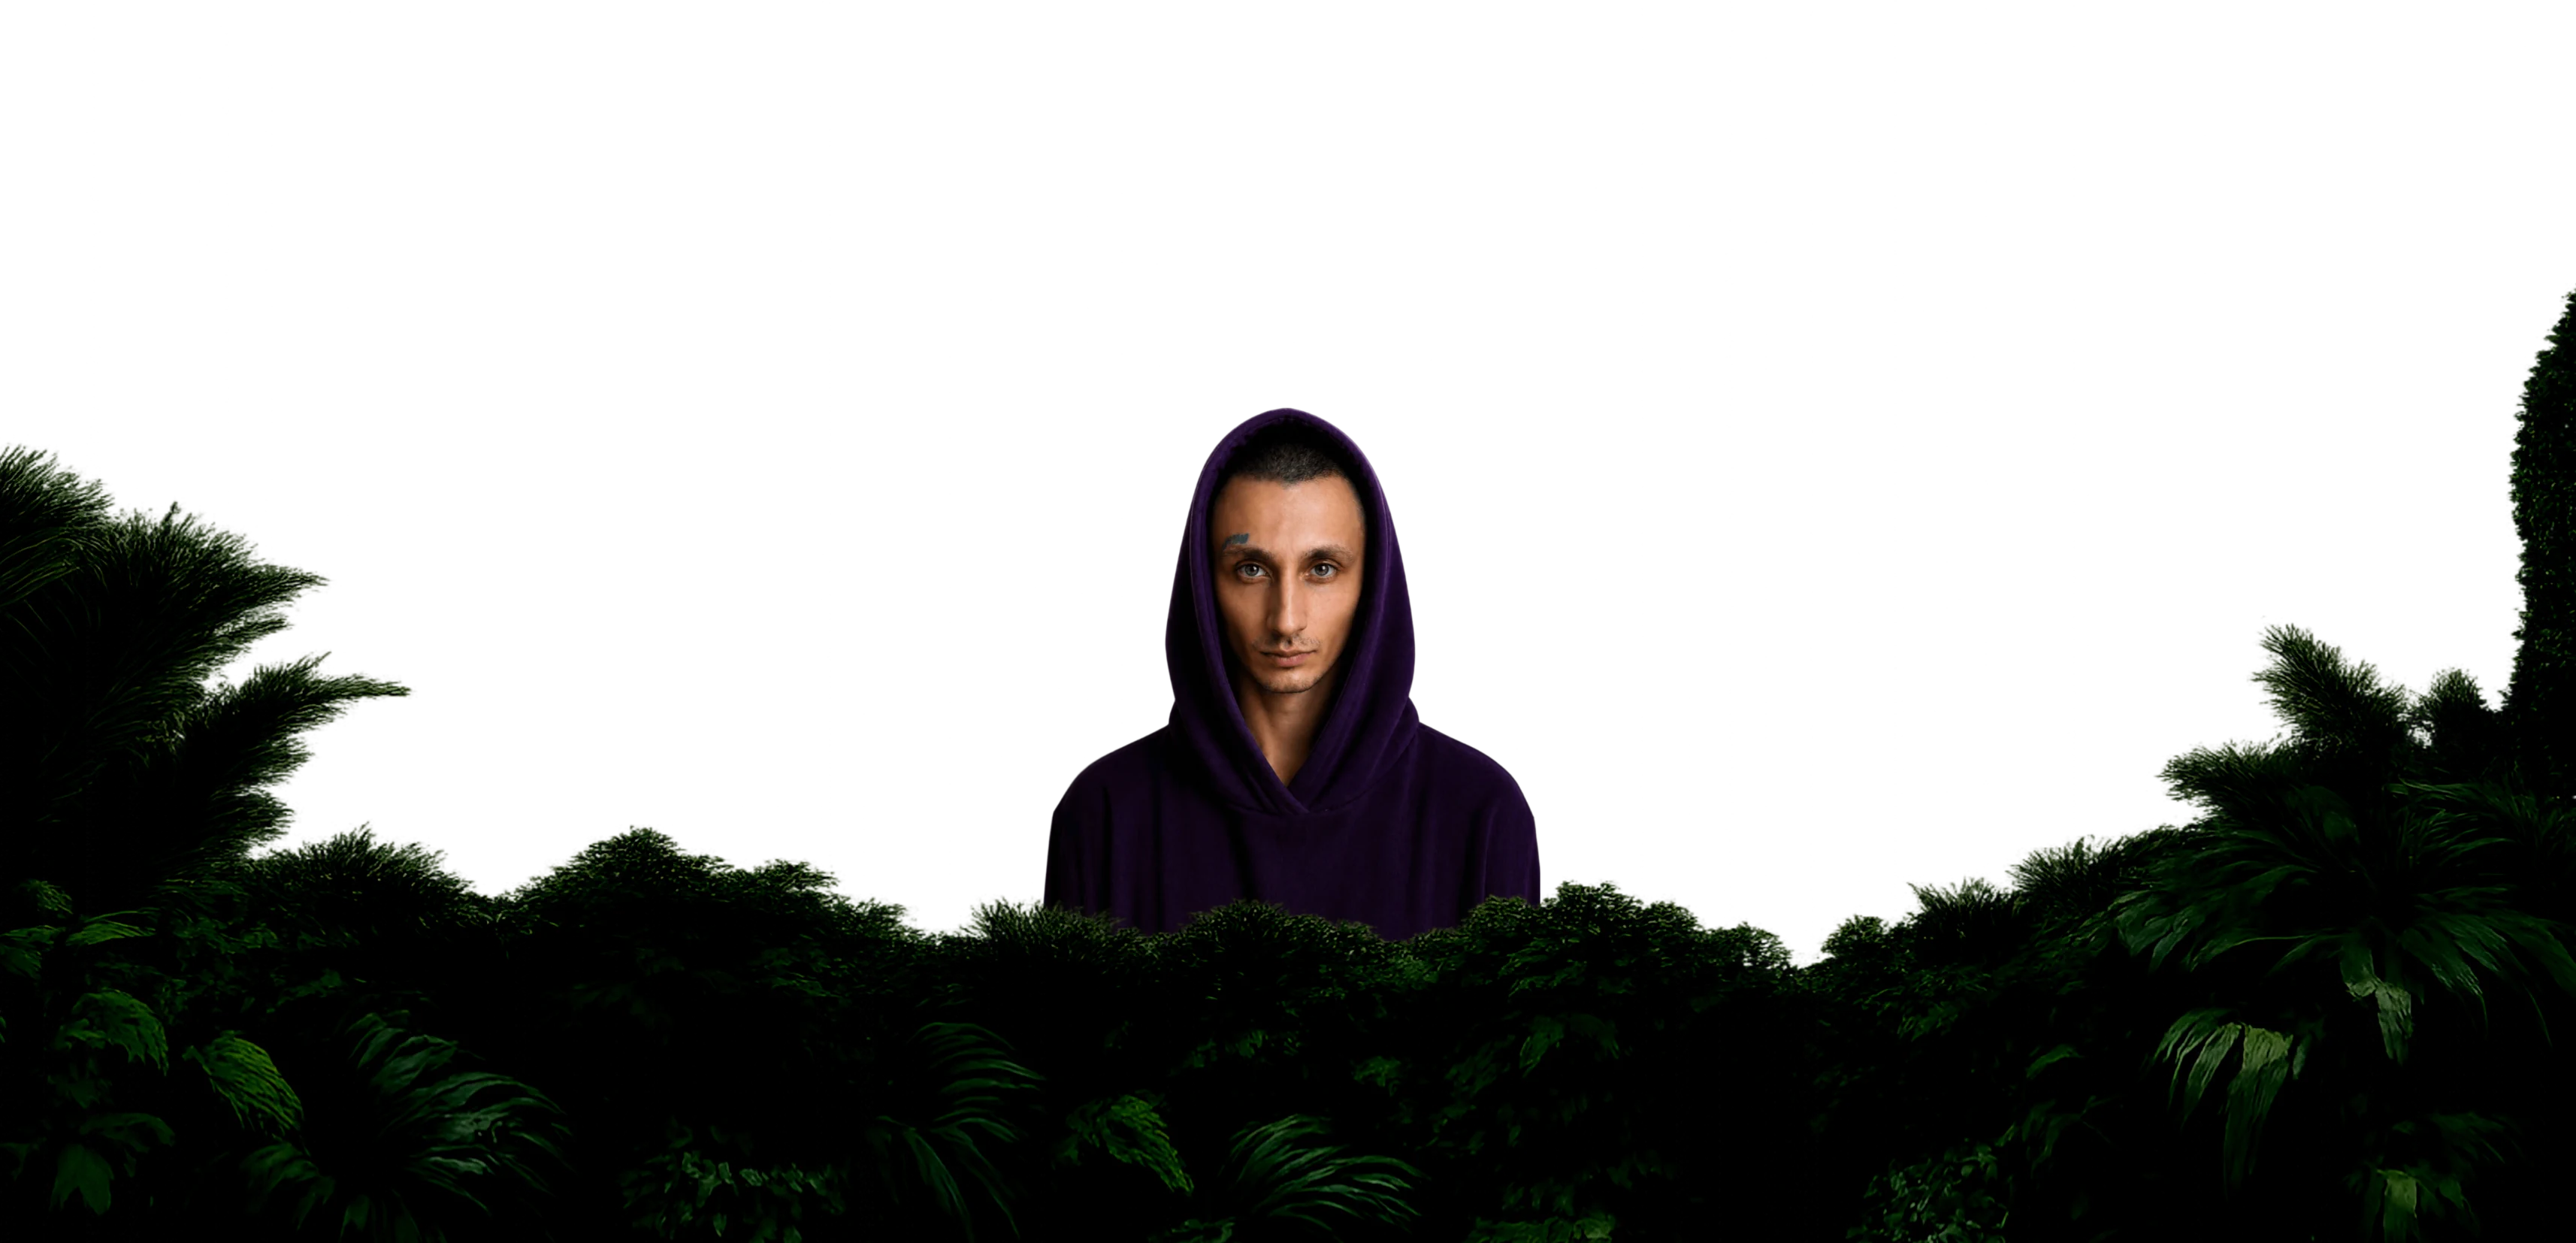
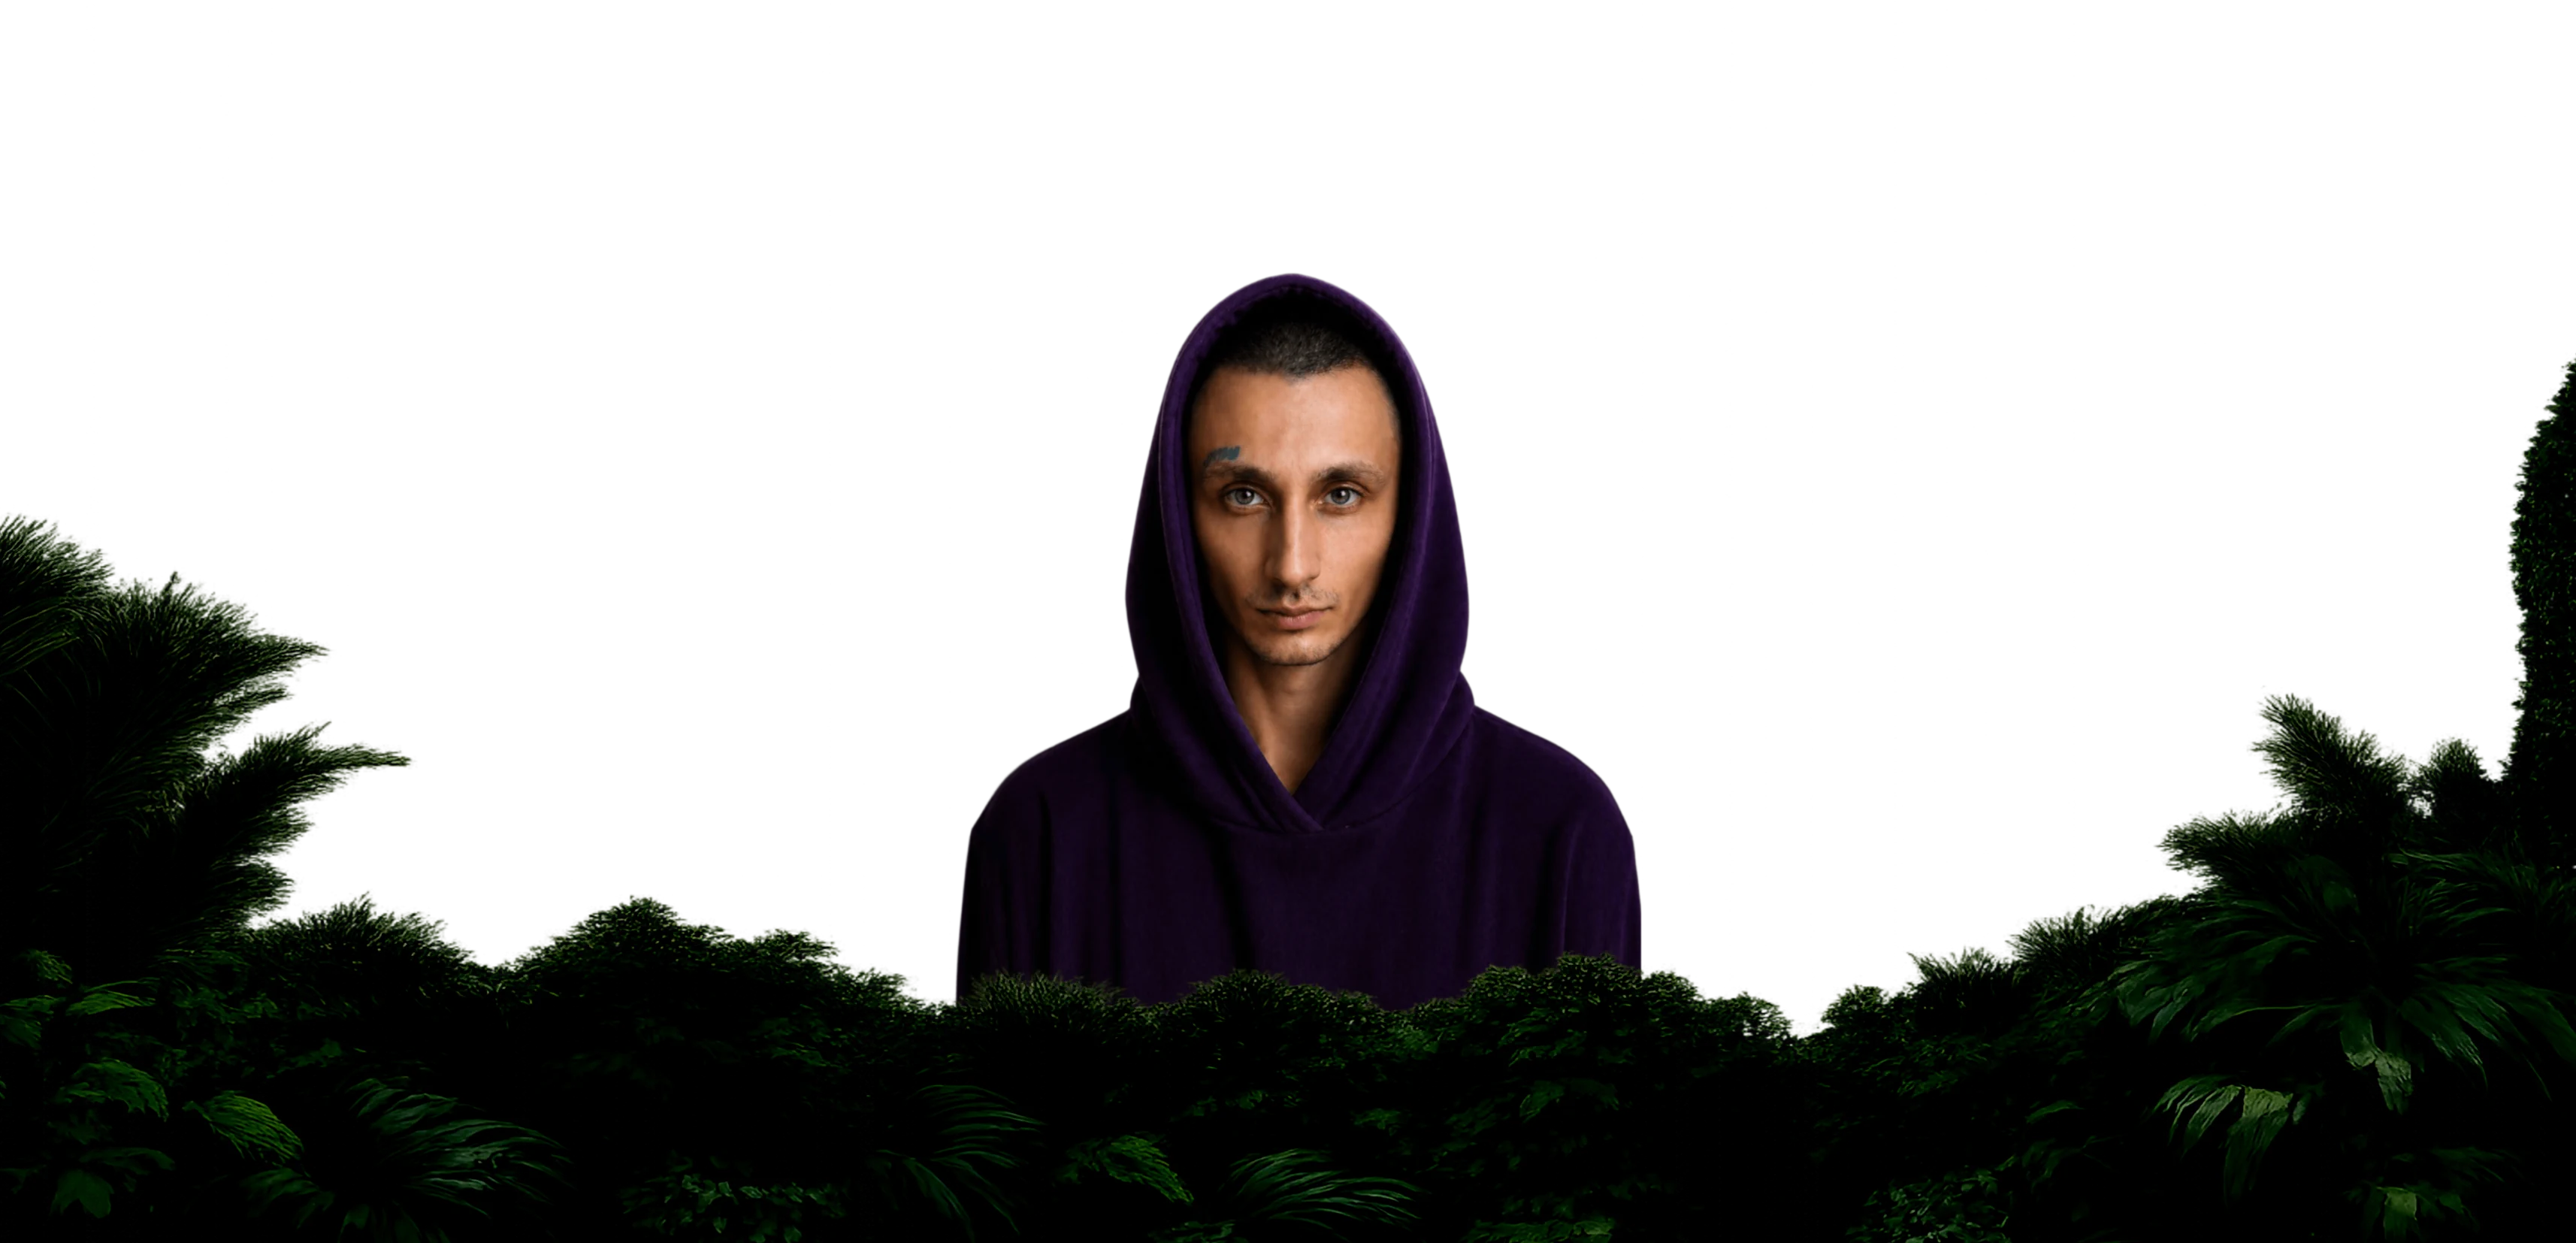
restyling 2

diff --git a/components/Preview/Preview.module.css b/components/Preview/Preview.module.css
@@ -17,8 +17,10 @@
   z-index: 2;
   object-fit: cover;
   pointer-events: none;
- mask-image: linear-gradient(to bottom, black 60%, transparent 100%);                                                                                                          
--webkit-mask-image: linear-gradient(to bottom, black 60%, transparent 100%);  
+  mask-image: linear-gradient(to bottom, black 60%, transparent 100%);
+  -webkit-mask-image: linear-gradient(to bottom, black 60%, transparent 100%);
+  opacity: 0;
+  transition: opacity 1s ease-in-out;
 }
 
 .preview__content {
@@ -80,7 +82,7 @@
 }
 
   .preview {
-        padding-top: 100px;
+        padding-top: 70px;
         padding-bottom: 30px;
   }
 
@@ -89,9 +91,9 @@
   }
 
   .preview__title {
-    font-size: 35px;
+    font-size: 30px;
     /* Even smaller title size for very small screens */
-    line-height: 40px;
+    line-height: 35px;
   }
 }
 

diff --git a/components/Preview/Preview.jsx b/components/Preview/Preview.jsx
@@ -36,6 +36,7 @@ const disabledLinkStyle = {
 
 export const Preview = () => {
   const { theme } = useTheme();
+  const [overlayLoaded, setOverlayLoaded] = useState(false);
 
   return (
     <section className={styles.preview} id="lol">
@@ -43,9 +44,10 @@ export const Preview = () => {
       <Image
         src={secondaryPreviewImage}
         alt="portal overlay"
-        className={styles.portalOverlay}
+        className={`${styles.portalOverlay} ${overlayLoaded ? styles.loaded : ""}`}
         fill
         priority
+        onLoad={() => setOverlayLoaded(true)}
       />
       {/* <Wave /> */}
 